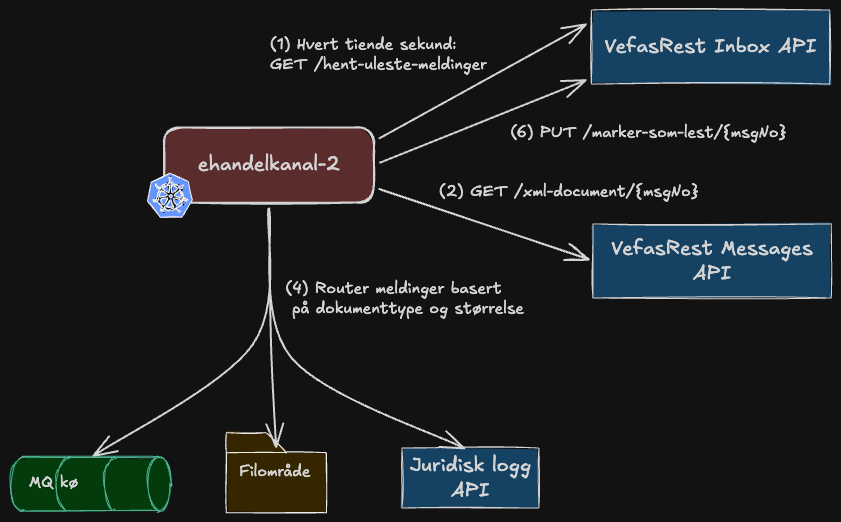
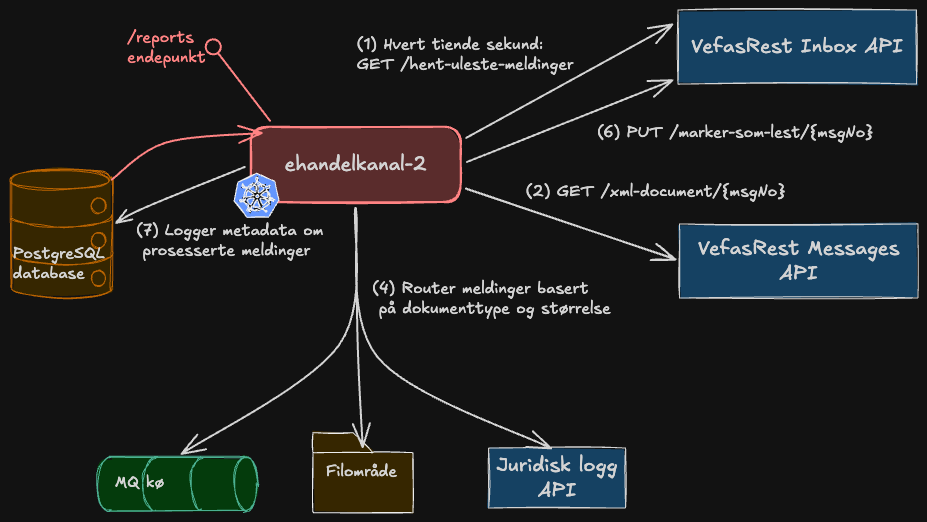
docs: add documentation of postgres functionality

diff --git a/README.md b/README.md
@@ -24,6 +24,8 @@ for de listede nye meldingene
 4. Router meldinger basert på Dokumenttype og størrelse
 5. Lagrer xml i juridisk logg gjennom access punkt (kun for Invoice/CreditNote under størrelsesbegrensning)
 6. Kall `PUT /marker-som-lest/{msgNo}` mot VefasRest Inbox API for å markere at meldingen er blitt lest
+7. Logger metadata om prosesserte meldinger til PostgreSQL-database on prem for rapportering.
+Tjenesten eksponerer også et `/reports`-endepunkt for å hente rapporter over prosesserte meldinger.
 
 ### Routing av meldinger (punkt 4)
 Meldinger routes ulikt avhengig av dokumenttype og filstørrelse:
@@ -45,11 +47,11 @@ Meldinger routes ulikt avhengig av dokumenttype og filstørrelse:
 
 **Referanse i koden:**
 - Routing-logikk: `src/main/kotlin/no/nav/ehandel/kanal/camel/routes/Inbound.kt` (linje 145-175)
-- Størrelseskonstanter: `LEGAL_ARCHIVE_SIZE_LIMIT` (linje 30) og `catalogueSizeLimit` i `Configuration.kt`
-
+- Størrelseskonstanter: `LEGAL_ARCHIVE_SIZE_LIMIT` (linje 30) og `catalogueSizeLimit` i `Configuration.kt` tj
 ## Avhengigheter
 - **Filområde via FTP** - tidligere koblet sammen med EBASYS, brukes for å lagre Invoice, CreditNote og store Catalogue-filer
 - **Meldingskø (MQ)** - brukes for OrderResponse og små Catalogue-meldinger
+- **PostgreSQL database (on prem)** - lagrer metadata om prosesserte inbound i databasen og eksponerer disse via `/reports`-endepunktet
 - **VefasRest Inbox API** - brukes for å sjekke etter nye meldinger og markere dem som lest
   - Swagger (dev): https://sokos-vefasrest.intern.dev.nav.no/api/inbox/docs
   - Endepunkter: 
@@ -60,6 +62,9 @@ Meldinger routes ulikt avhengig av dokumenttype og filstørrelse:
   - Endepunkter:
     - `GET /xml-document/{msgNo}` - Henter XML-payload for en melding
 - **Juridisk logg** - brukes for å lagre Invoice og CreditNote under 20 MB for etterfølgende tilgang ved nedetid
+- **`/reports` REST API** - tjenesten eksponerer egne endepunkter for rapportering (beskyttet med Azure AD via NAIS):
+  - `GET /reports/inbound` - Henter rapport over innkommende meldinger
+  - `GET /reports/outbound` - Henter rapport over utgående meldinger
 
 ## Hvordan kjøre lokalt
 Applikasjonen kan bygges lokalt ved å kjøre `./gradlew clean build`
